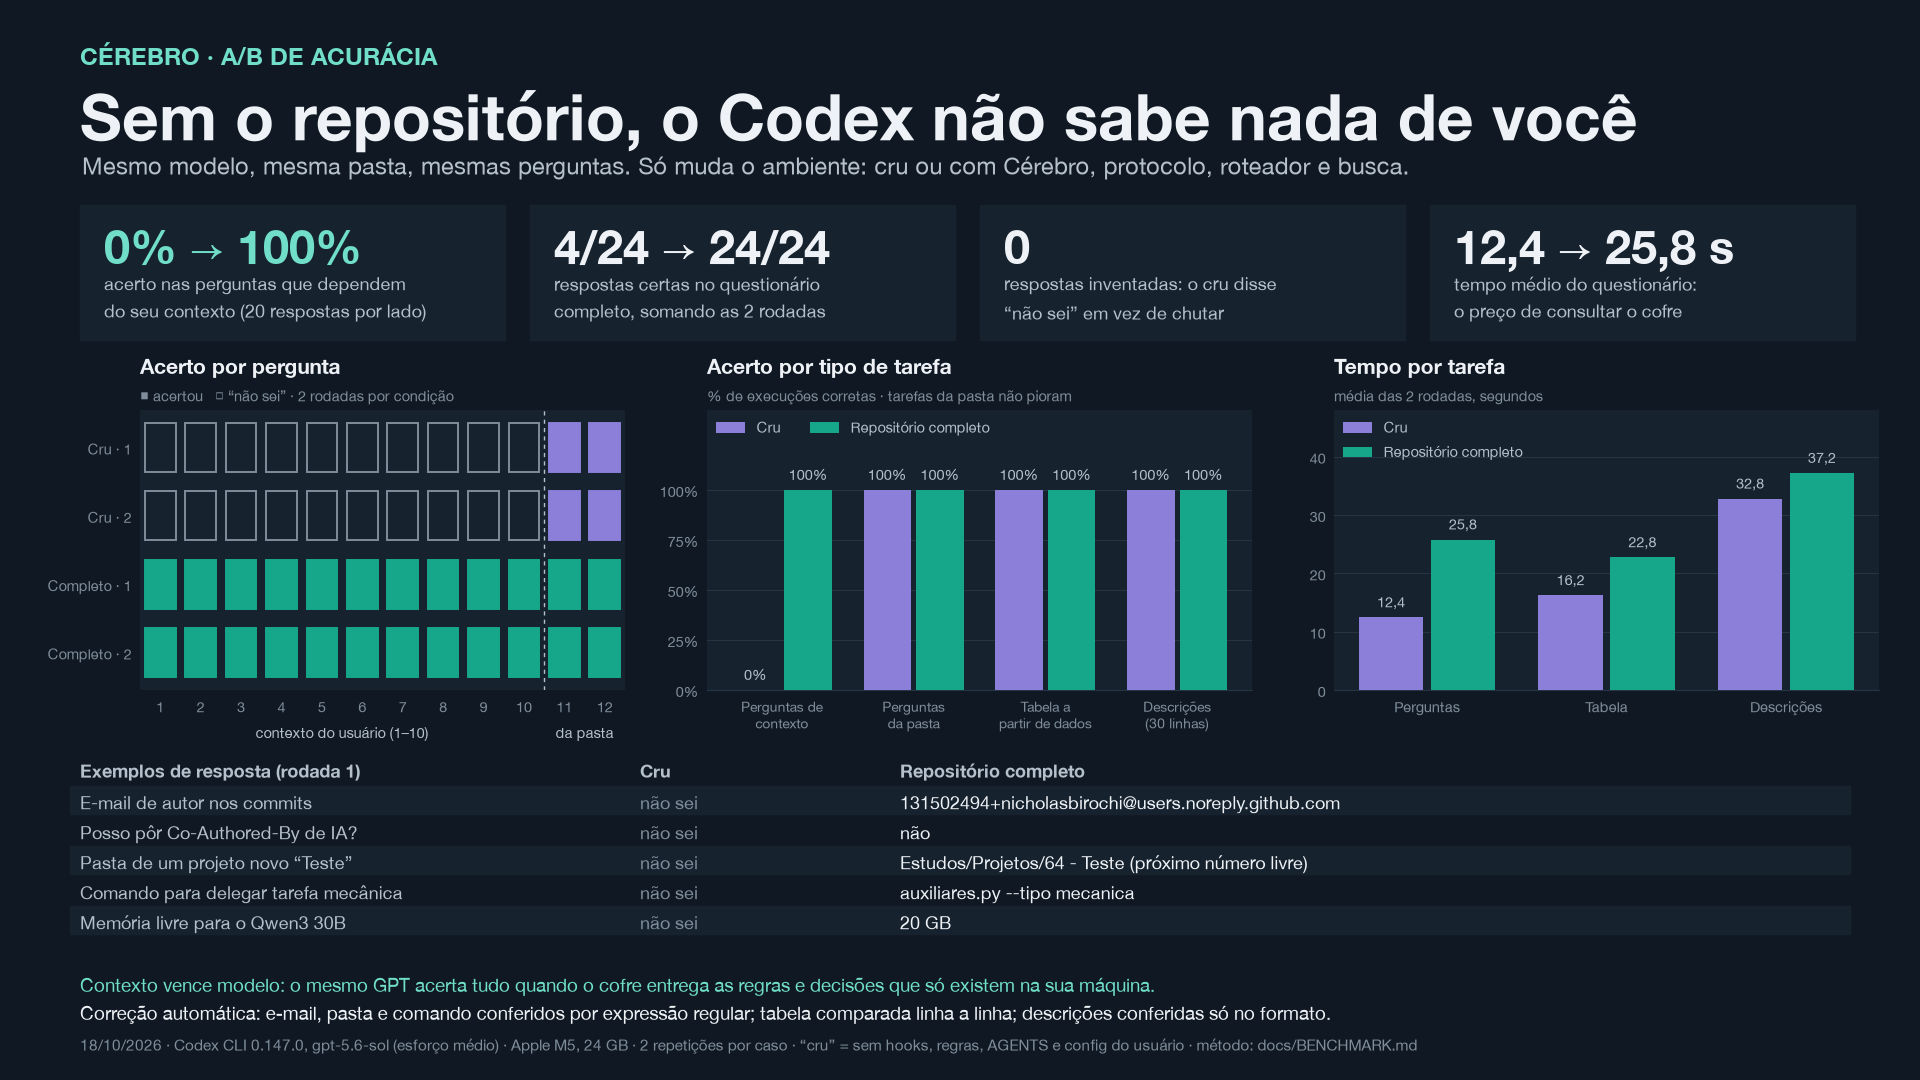
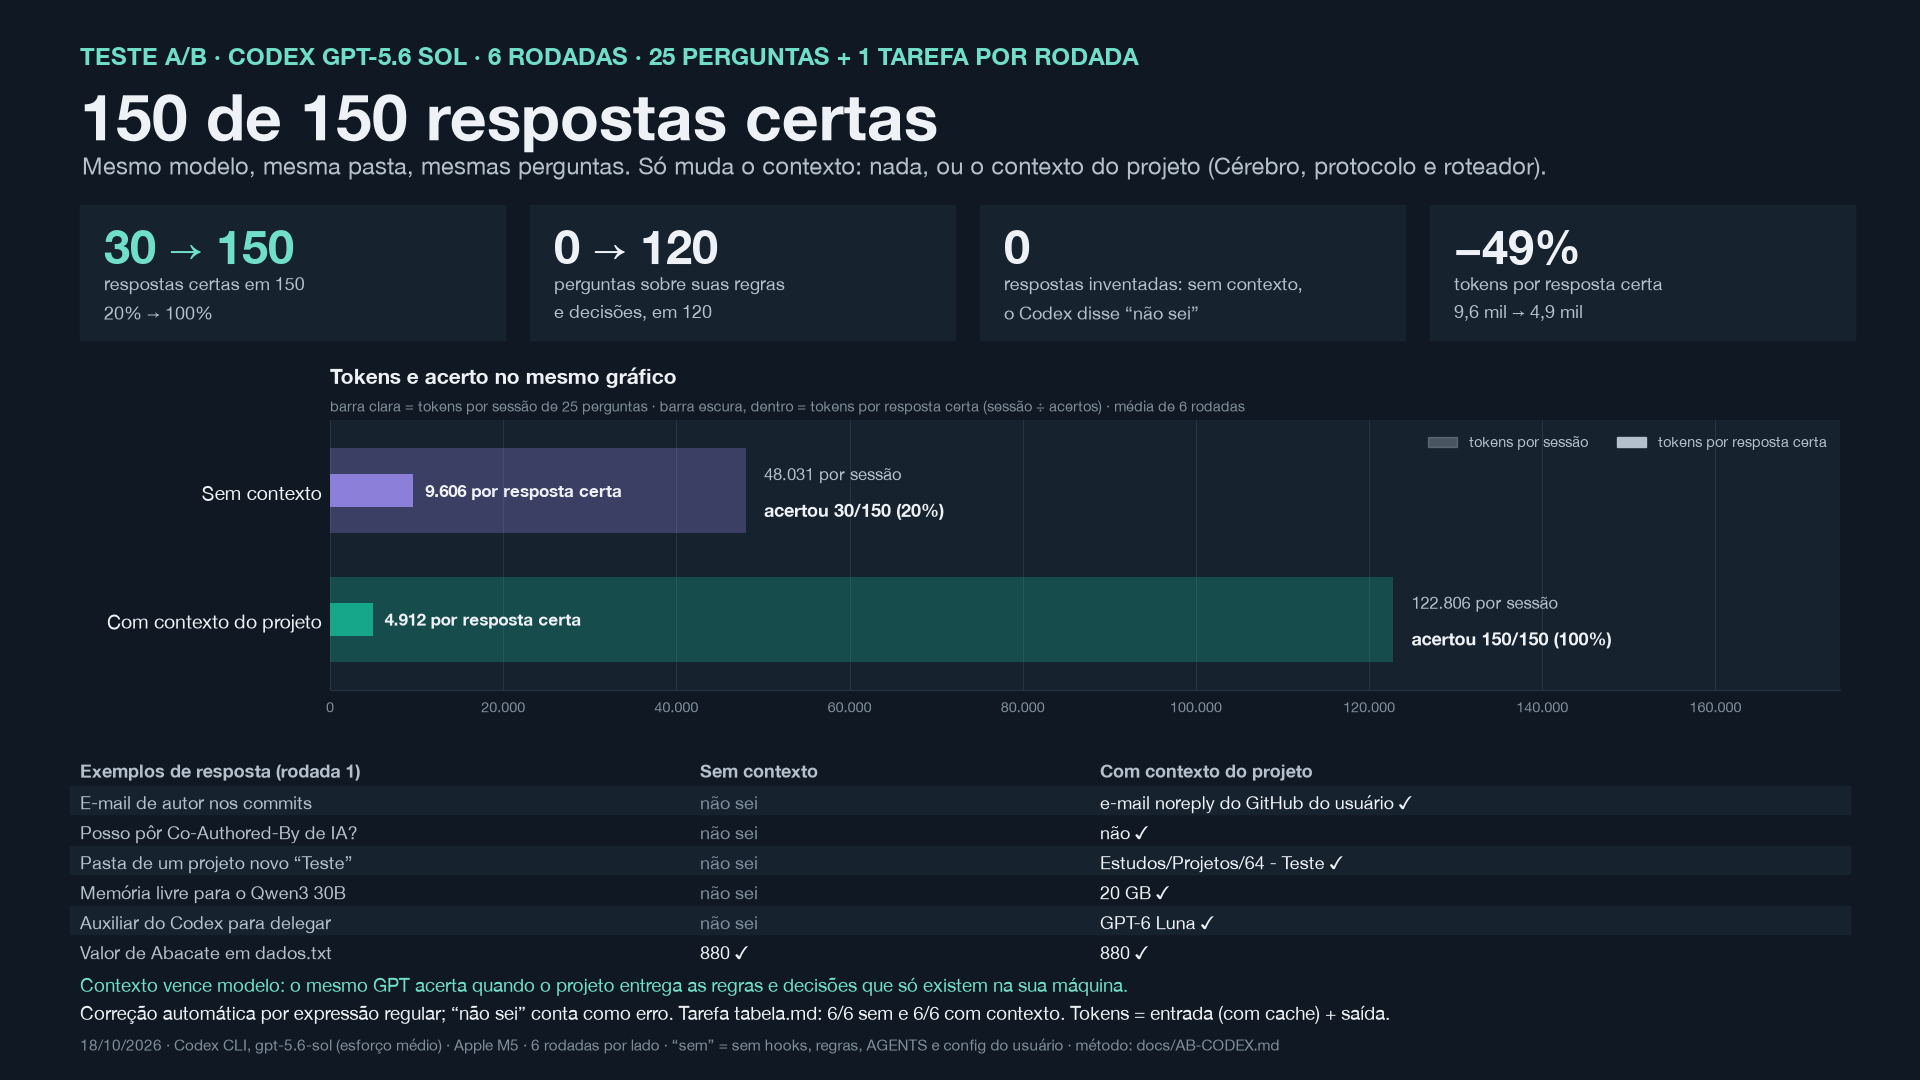
docs: document six A/B rounds, a play cover, and the test method in README
- A/B de perguntas: 30/150 → 150/150 respostas certas e 49% menos tokens por resposta certa; gráfico único de tokens e acerto (ab-tokens.png removido).
- Capa do vídeo com botão de play que abre o player.
- README: seção "Como os testes foram feitos", incluindo o A/B de código com laço até acertar.
- Benchmark: opção --espera para o limite por busca; one pager atualizado.

diff --git a/tools/benchmark_busca.py b/tools/benchmark_busca.py
@@ -272,7 +272,7 @@ def agregar(consultas, tokens):
     return agregado
 
 
-def medir_ampliado(quantidades=ESCALAS_RAPIDAS, parcial=None, contar_tokens=False):
+def medir_ampliado(quantidades=ESCALAS_RAPIDAS, parcial=None, contar_tokens=False, espera=3600):
     script_hash = hashlib.sha256(Path(__file__).read_bytes()).hexdigest()
     anterior = subprocess.run(
         ["git", "-C", str(RAIZ), "show", f"{REFERENCIA}:tools/cerebro.py"],
@@ -309,7 +309,8 @@ def medir_ampliado(quantidades=ESCALAS_RAPIDAS, parcial=None, contar_tokens=Fals
                 corpus = gerar_corpus(base, quantidade, gerado)
                 corpus["segundos_para_gerar_e_conferir"] = round(time.perf_counter() - inicio, 1)
                 gerado = quantidade
-                escala = {"corpus": corpus, "consultas": medir_escala(referencia, atual, base, quantidade, contar)}
+                escala = {"corpus": corpus,
+                          "consultas": medir_escala(referencia, atual, base, quantidade, contar, espera)}
                 escala["agregado"] = agregar(escala["consultas"], contar)
                 salvar_parcial(parcial, identidade, [*escalas, escala])
                 print(f"Conferido: {quantidade:,} notas, {len(CONSULTAS)} consultas pareadas.", file=sys.stderr, flush=True)
@@ -347,7 +348,7 @@ def medir_ampliado(quantidades=ESCALAS_RAPIDAS, parcial=None, contar_tokens=Fals
                         "Não mede inferências, produtividade, qualidade geral das IAs ou economia financeira."]}
 
 
-def medir_escala(referencia, atual, base, quantidade, contar):
+def medir_escala(referencia, atual, base, quantidade, contar, espera=3600):
     resultados = []
     for indice, consulta in enumerate(CONSULTAS):
         opcoes = ["--max", "5", "--orcamento", "12000"]
@@ -360,7 +361,7 @@ def medir_escala(referencia, atual, base, quantidade, contar):
         saidas, recursos = {}, {}
         for versao, script in ordem:
             saidas[versao], recursos[versao] = executar(script, base, *opcoes, termos=consulta["termos"],
-                                                        espera=3600)
+                                                        espera=espera)
             print(f"{quantidade:,} notas, consulta {indice + 1}/{len(CONSULTAS)}, {versao}: "
                   f"{recursos[versao]['segundos']}s, {recursos[versao]['pico_memoria_mb']} MB.",
                   file=sys.stderr, flush=True)
@@ -398,13 +399,15 @@ if __name__ == "__main__":
     parser.add_argument("--parcial", help="arquivo de progresso: grava cada escala concluída e retoma dele")
     parser.add_argument("--tokens", action="store_true",
                         help="conta tokens o200k_base com tiktoken instalado à parte (não é o tokenizador do Claude)")
+    parser.add_argument("--espera", type=int, default=3600,
+                        help="limite por busca, em segundos (padrão 3600); 1.000.000 de notas pede várias horas")
     args = parser.parse_args()
     if args.escalas and (len(set(args.escalas)) != len(args.escalas) or
                          not all(1 <= q <= ESCALAS[-1] for q in args.escalas)):
         parser.error("cada escala deve aparecer uma única vez, entre 1 e 1.000.000")
     escolhidas = tuple(args.escalas or (ESCALAS if args.completo else ESCALAS_RAPIDAS))
     try:
-        print(json.dumps(medir_ampliado(escolhidas, args.parcial, args.tokens)
+        print(json.dumps(medir_ampliado(escolhidas, args.parcial, args.tokens, args.espera)
                          if args.ampliado or args.completo or args.escalas else medir(),
                          ensure_ascii=False, indent=2))
     except ImportError:

diff --git a/readme.md b/readme.md
@@ -8,25 +8,60 @@ Esta edição pública contém ferramentas, um cofre sintético de exemplo, docu
 
 O vídeo usa a voz do Noah para mostrar o fluxo: você define o objetivo, o agente principal consulta o Cérebro, delega pelo roteador aos auxiliares e revisa o resultado. É uma ilustração do funcionamento, sem representar telemetria de mensagens reais.
 
-[![Capa estática do vídeo da arquitetura — clique para abrir o player](media/arquitetura-capa.jpg)](https://nicholasbirochi.github.io/Cerebro/)
+[![Capa do vídeo da arquitetura com botão de play — clique para abrir o player](media/arquitetura-capa.jpg)](https://nicholasbirochi.github.io/Cerebro/)
 
 **[▶ Abrir o player (2min12s)](https://nicholasbirochi.github.io/Cerebro/)** · [Baixar o vídeo](https://github.com/nicholasbirochi/Cerebro/raw/refs/heads/main/media/arquitetura.mp4)
 
-O vídeo só começa quando você clica em Play. O player oferece pausa, barra de tempo para avançar ou voltar, volume e tela cheia. A capa acima é estática; o MP4 original, com narração, foi mantido.
+O vídeo só começa quando você clica em Play. O player oferece pausa, barra de tempo para avançar ou voltar, volume e tela cheia. No GitHub a capa é uma imagem: clique no play dela para abrir o player. O MP4 original, com narração, foi mantido.
 
 ## A/B: Codex cru × repositório completo
 
 Mesmo modelo, mesma pasta e mesmas perguntas. O Codex **cru** roda sem configuração, regras, AGENTS, hooks ou Cérebro; o **completo** usa o hook, o protocolo, a busca e o roteador local.
 
-[![A/B de acurácia: 4/24 → 24/24 respostas certas](media/ab-acuracia.png)](media/ab-acuracia.png)
+[![One pager do A/B: 30/150 → 150/150 respostas certas e 49% menos tokens por resposta certa](media/ab-acuracia.png)](media/ab-acuracia.png)
 
-[![A/B de tokens: 74% menos tokens por resposta certa](media/ab-tokens.png)](media/ab-tokens.png)
+Nas perguntas que dependem do seu contexto, o acerto foi de **0 para 120 em 120** (6 rodadas, 150 respostas por lado), sem regressão nas tarefas da pasta. O completo lê mais por sessão, mas gasta **49% menos tokens por resposta certa**. Delegar tarefas pequenas ao Qwen 7B local ainda custa mais ao principal do que economiza; o método, os números e os próximos ajustes estão em [docs/AB-CODEX.md](docs/AB-CODEX.md).
 
-Nas perguntas que dependem do seu contexto, o acerto foi de **0% para 100%**, sem regressão nas tarefas da pasta. O completo lê mais por sessão, mas gasta **74% menos tokens por resposta certa**. Delegar tarefas pequenas ao Qwen 7B local ainda custa mais ao principal do que economiza; o método, os números e os próximos ajustes estão em [docs/AB-CODEX.md](docs/AB-CODEX.md).
+## Como os testes foram feitos
+
+Os A/B comparam o mesmo Codex (`gpt-5.6-sol`, esforço médio) em duas condições, e só o ambiente em volta dele muda:
+
+- **Cru**: `codex exec --ignore-user-config --ignore-rules -c project_doc_max_bytes=0 --disable hooks`, ou seja, sem configuração do usuário, regras, AGENTS, hooks ou Cérebro. O prompt pede que ele use só o próprio conhecimento e os arquivos da pasta.
+- **Completo**: a configuração normal da máquina, com hook de início, Protocolo dos Agentes, busca com trechos e roteador de auxiliares.
+
+Cada execução roda numa cópia descartável, com escrita liberada só nessa pasta e sem rede. Os tokens são os que o próprio Codex informa em `turn.completed`: entrada (incluindo o cache) mais saída. O uso de modelos locais vem do registro do roteador. Se o cru executar algo que toque o Cérebro, `.codex` ou `.claude`, a execução é marcada como contaminada.
+
+**Perguntas.** Cada rodada traz 25 perguntas, e foram 6 rodadas. Vinte dependem de regras e decisões que só existem no cofre, como o e-mail dos commits, a pasta de um projeto novo ou o modelo auxiliar. As outras 5 se respondem com os arquivos da pasta. A resposta vem em JSON e é corrigida por expressão regular; "não sei" conta como erro. Uma tarefa extra gera uma tabela Markdown, conferida linha a linha.
+
+**Código, até acertar.** São três tarefas reais, cada uma feita numa cópia de um projeto desta máquina:
+
+| Tarefa | Tipo | Pedido |
+|---|---|---|
+| CNPJ CNAE Scraper | modificar um projeto com contexto | `resumo_por_cnae(linhas)` e uma aba "Resumo" na planilha |
+| Agenda | criar um projeto novo | `proximos(eventos, hoje, dias)` com testes, pronto para publicar no GitHub |
+| Pontos Loop | mudar uma regra financeira | `taxa_periodo(taxa_mensal, dias)` usada em `pv` e verificada em `check()` |
+
+Cada entrega passa por três crivos:
+
+1. **Testes ocultos** que o Codex nunca vê: 6, 5 e 8 casos (empate na ordenação, janela inclusiva, virada de mês, `Decimal`, entrada intacta etc.), além dos testes que o projeto já tinha.
+2. **Extras objetivos**: escrever testes novos e manter o `check_math.py` passando.
+3. **Convenções do usuário**:
+   - pasta `NN - Nome` com o próximo número livre;
+   - README com imagem e `.gitignore`;
+   - descrição em inglês;
+   - perguntar a visibilidade e quais dados entram antes de publicar;
+   - identidade humana nos commits;
+   - nenhum commit em projeto existente;
+   - `FORMULAS.md` atualizado;
+   - retorno em `Decimal`.
+
+A entrega é **correta** quando passa nos ocultos e nos extras, e **aceita** quando, além disso, cumpre todas as convenções. Se não for aceita, a mesma sessão é retomada (`codex exec resume`) com a revisão que um usuário faria: o nome de cada teste que falhou com a última linha do erro e uma frase para cada convenção que falta. O código dos testes nunca é mostrado. São até 5 tentativas por execução. Os tokens são somados até a tentativa correta e até a aceita, para medir **quanto custa chegar ao resultado**, não só a primeira resposta.
+
+A checagem de testes novos no CNPJ entrou depois de uma rodada de validação, que não conta nos números. Os scripts de A/B leem o cofre pessoal e não são distribuídos; as tarefas, os crivos e as mensagens de revisão estão descritos aqui e em [docs/AB-CODEX.md](docs/AB-CODEX.md).
 
 ## Benchmark de contexto: de 1 nota a 1 milhão de notas
 
-[![Benchmark de contexto: seis escalas medidas, de 1 a 100.000 notas, e 1 milhão de notas como projeção identificada](media/one-pager.png)](media/one-pager.png)
+[![Benchmark de tokens: 58% menos tokens por consulta, medido de 1 a 100.000 notas, com 1 milhão de notas como projeção identificada](media/one-pager.png)](media/one-pager.png)
 
 [Ampliar o one pager](media/one-pager.png) · [Baixar o slide editável (PowerPoint)](media/one-pager.pptx)
 

diff --git a/docs/AB-CODEX.md b/docs/AB-CODEX.md
@@ -7,34 +7,33 @@ Mesmo modelo, mesma pasta e mesmas tarefas, em duas condições. Só muda o ambi
 | **Cru** | `codex exec --ignore-user-config --ignore-rules -c project_doc_max_bytes=0 --disable hooks`: sem configuração do usuário, regras, AGENTS, hooks, skills ou Cérebro. O prompt pede que use só o próprio conhecimento e os arquivos da pasta. |
 | **Repositório completo** | Configuração normal: hook de início do Cérebro, Protocolo dos Agentes, busca com trechos e roteador `auxiliares.py` para Ollama, Copilot e Nemotron. |
 
-Ambiente: 18/10/2026, Codex CLI 0.147.0, `gpt-5.6-sol` com esforço médio, Apple M5 com 24 GB, 2 repetições por caso. Os tokens do principal (entrada, entrada em cache e saída) vêm dos eventos `turn.completed` do próprio Codex; os tokens locais vêm do registro do roteador.
+Ambiente: 18/10/2026, Codex CLI 0.147.0, `gpt-5.6-sol` com esforço médio, Apple M5 com 24 GB, 6 rodadas por lado (25 perguntas por rodada = 150 respostas por lado). Os tokens do principal (entrada, entrada em cache e saída) vêm dos eventos `turn.completed` do próprio Codex; os tokens locais vêm do registro do roteador.
 
 ## Acurácia
 
-[![A/B de acurácia: 4/24 → 24/24 respostas certas](../media/ab-acuracia.png)](../media/ab-acuracia.png)
+[![One pager do A/B: 30/150 → 150/150 respostas certas e 49% menos tokens por resposta certa](../media/ab-acuracia.png)](../media/ab-acuracia.png)
 
 | Tarefa | Cru | Completo |
 |---|---:|---:|
-| 10 perguntas que dependem do contexto do usuário (2 rodadas) | 0/20 | 20/20 |
-| 2 perguntas respondíveis pelos arquivos da pasta | 4/4 | 4/4 |
-| Tabela Markdown a partir de `dados.txt` | 2/2 | 2/2 |
-| 30 descrições curtas (formato conferido) | 2/2 | 2/2 |
-| Tempo médio do questionário | 12,4 s | 25,8 s |
+| 20 perguntas que dependem do contexto do usuário (6 rodadas) | 0/120 | 120/120 |
+| 5 perguntas respondíveis pelos arquivos da pasta (6 rodadas) | 30/30 | 30/30 |
+| **Total do questionário** | **30/150 (20%)** | **150/150 (100%)** |
+| Tabela Markdown a partir de `dados.txt` | 6/6 | 6/6 |
+| 30 descrições curtas (formato conferido; medição anterior, 2 rodadas) | 2/2 | 2/2 |
+| Tempo médio do questionário | 19,2 s | 42,4 s |
 
-O cru respondeu "não sei" nas perguntas de contexto e não inventou respostas. As tarefas que dependem só da pasta não pioraram com o repositório.
+O cru respondeu "não sei" em todas as perguntas de contexto e não inventou nenhuma resposta. As tarefas que dependem só da pasta não pioraram com o repositório.
 
 ## Tokens
 
-[![A/B de tokens: 74% menos tokens por resposta certa](../media/ab-tokens.png)](../media/ab-tokens.png)
-
-| Medida (média de 2 rodadas) | Cru | Completo |
+| Medida (média de 6 rodadas) | Cru | Completo |
 |---|---:|---:|
-| Tokens do principal, questionário | 62 mil | 99 mil |
-| Tokens do principal, tabela | 65 mil | 93 mil |
-| Tokens do principal, 30 descrições | 72 mil | 156 mil |
-| Tokens por resposta certa, questionário | 31,2 mil | 8,2 mil |
+| Tokens do principal, questionário | 48 mil | 123 mil |
+| Tokens do principal, tabela | 66 mil | 103 mil |
+| Tokens do principal, 30 descrições (medição anterior, 2 rodadas) | 72 mil | 156 mil |
+| Tokens por resposta certa, questionário | 9,6 mil | 4,9 mil |
 
-O repositório completo **lê mais** em cada sessão (+43% a +117%, quase todo em cache) e por isso **gasta 74% menos tokens por resposta certa**: o cru gasta tokens e não acerta o que depende do contexto.
+O repositório completo **lê mais** em cada sessão (+56% a +156%, quase todo em cache) e mesmo assim **gasta 49% menos tokens por resposta certa**: o cru gasta tokens e não acerta o que depende do contexto.
 
 **Delegar ao modelo local ainda não compensa em tarefas pequenas.** Nas 30 descrições, a delegação ao Qwen 2.5 Coder 7B elevou os tokens do principal para 228 mil (dica), 375 mil (comando) e 254 mil (rascunho), contra 156 mil sem delegar. O 7B foi reprovado na validação de formato nas 4 delegações validadas, e o principal reler o contexto a cada passo custa mais do que as 30 linhas economizadas. O fluxo de rascunho, que guarda a resposta reprovada e aponta só as linhas ruins, reduziu o custo de 375 mil para 254 mil.
 
@@ -47,7 +46,7 @@ O que vem a seguir:
 
 ## Limites
 
-- 2 repetições por caso; diferenças pequenas de tempo e tokens estão dentro da variação.
+- 6 rodadas por lado (150 respostas cada); as 30 descrições ainda são da medição anterior, com 2 rodadas. Diferenças pequenas de tempo estão dentro da variação.
 - Só o Codex foi testado. O Claude Code não entrou nesta rodada.
 - A correção é automática: e-mail, pasta e comando por expressão regular, tabela linha a linha e descrições só no formato, não na qualidade do texto.
 - As perguntas de contexto foram escritas a partir do cofre pessoal e não são distribuídas; o cru não tinha como acertá-las, e é isso que o teste mostra: o ganho vem do contexto, não do modelo.

diff --git a/docs/BENCHMARK.md b/docs/BENCHMARK.md
@@ -2,7 +2,7 @@
 
 Executado em 17/10/2026 em um Apple M5 com 24 GB de RAM, macOS e Python 3.14.7. O teste compara a busca `--trechos` da revisão pública de referência `40569e8` com a versão atual, usando apenas notas sintéticas. Não acessa o cofre pessoal, não chama IA e não usa API paga.
 
-![Benchmark de contexto em sete escalas](../media/one-pager.png)
+![Benchmark de tokens por consulta em sete escalas](../media/one-pager.png)
 
 [Slide editável (PowerPoint)](../media/one-pager.pptx) · [JSON completo da execução](benchmark-ampliado.json)
 
